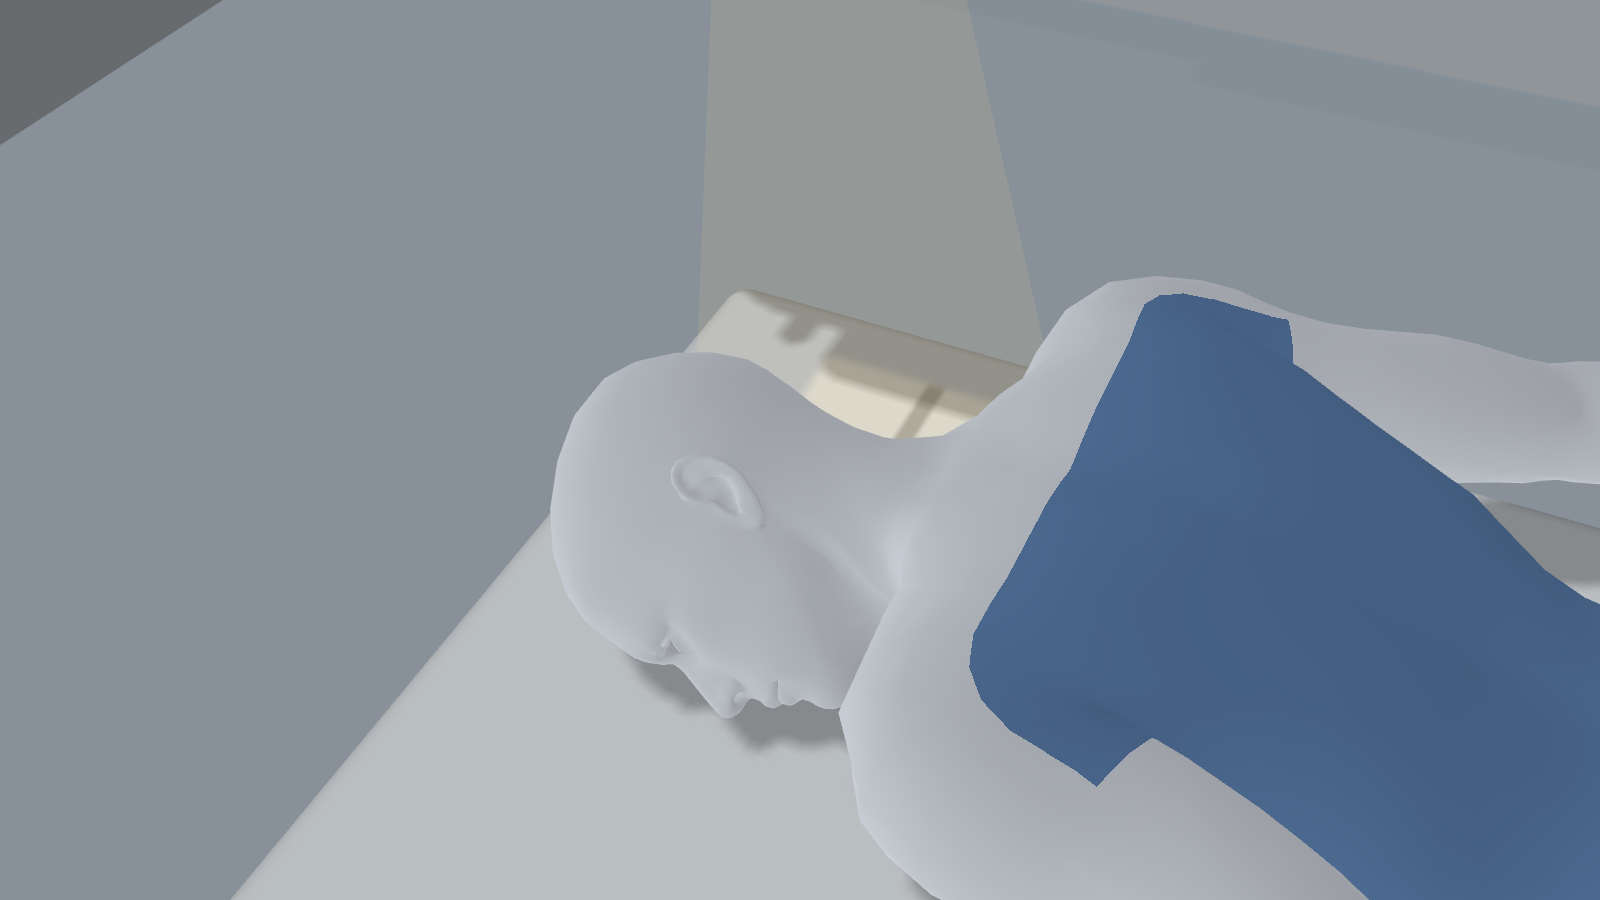
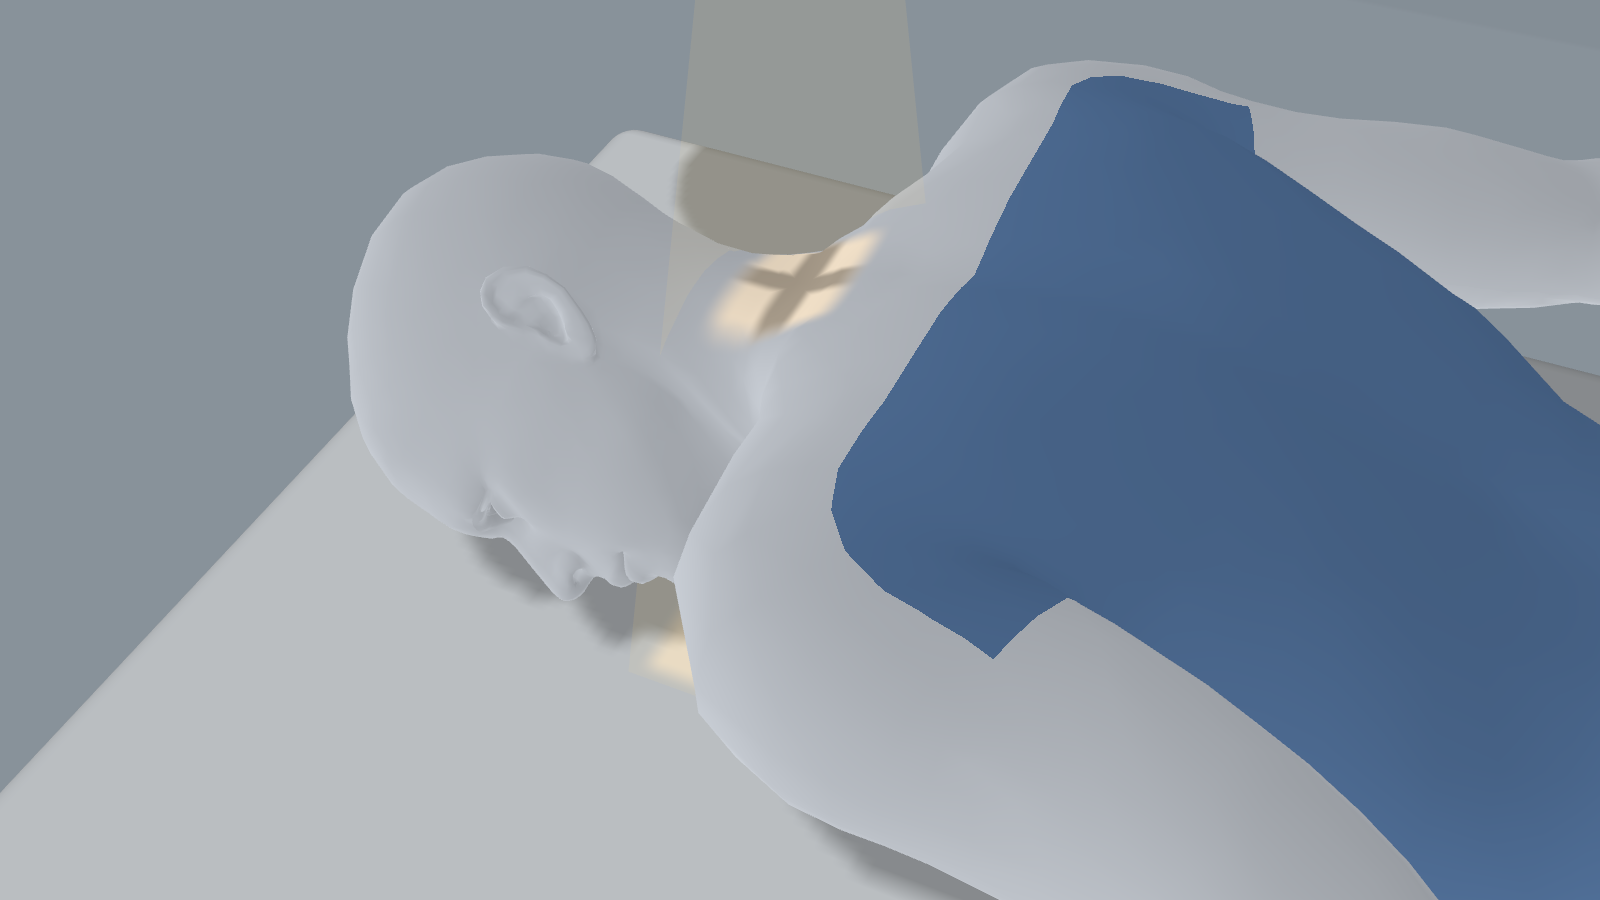
Fix Stenver's light-field aim: paint on head/neck, not behind on table
Root cause was a bad head-center estimate aiming the tube ~6cm off the
head (wrong side); the skin-paint method works fine (same as pelvis).
Data-driven grid search located the head up-facing point; tube now
parks over it so the field+cross paint on the body. Field made warmer/
brighter so it reads on the (bright emissive) white skin. 12deg caudad
kept as the documented CR-IR angle in readout; visual field centered on
the part (vertical) since a 12deg tilt over the ~0.7m throw walks the
small light square off the turned skull onto the table.

diff --git a/index.html b/index.html
@@ -173,8 +173,8 @@ function beamPaint(base) {
   const lit = hit.mul(isBody.oneMinus()).mul(uOcclOn).oneMinus();
 
   const fm = fieldMask.mul(lit);
-  let c = base.add(color("#ffeab5").mul(fm.mul(0.34)));
-  c = mix(c, c.mul(0.55), fm.mul(crossBand));
+  let c = base.add(color("#ffcf6a").mul(fm.mul(0.5)));   // 暖橘光野,白皮膚上也看得見
+  c = mix(c, c.mul(0.45), fm.mul(crossBand));            // 十字陰影帶
   return c;
 }
 
@@ -612,10 +612,13 @@ const PRESETS = {
       "head.y": 45
     },
     room: { lie: 1, ox: 0.55, oy: 1.47, oz: 0 },
-    tube: { x: -0.13, z: 0.55, h: 1.70, pitch: 12, yaw: 0, fieldW: 0.20, fieldH: 0.25, beamOn: 1 },
+    // 球管對位:網格實測頭部朝上點 room x≈-0.02,z≈0.55(光野貼顳/頰)。
+    // 12° caudad 是 CR-IR 角度(readout 記載);視覺光野維持垂直置中於頭部(真機亦置中於部位),
+    // 否則 12° 在 ~0.7m 投程會把方形光野「走」到頭後檯面。
+    tube: { x: -0.02, z: 0.55, h: 1.50, pitch: 0, yaw: 0, fieldW: 0.13, fieldH: 0.16, beamOn: 1 },
     ws: { h: 1.45, x: -2.3 }, det: { x: 1.38, z: 0.55, on: 0 },
-    occl: { x: -0.13, y: 0.95, z: 0.55, rx: 0.16, ry: 0.15, rz: 0.16 },   // 頭部影子
-    cam: { px: -0.1, py: 1.5, pz: 1.4, tx: -0.1, ty: 0.95, tz: 0.55 }
+    occl: { x: -0.02, y: 0.85, z: 0.55, rx: 0.15, ry: 0.15, rz: 0.15 },   // 頭部影子
+    cam: { px: -0.02, py: 1.4, pz: 1.3, tx: -0.02, ty: 0.86, tz: 0.55 }
   },
   "skull-stenvers-arcelin": {
     label: "頭顱 Arcelin 位(仰臥,Reverse Stenver's)",
@@ -627,10 +630,10 @@ const PRESETS = {
       "head.y": 45
     },
     room: { lie: 1, ox: 0.55, oy: 1.47, oz: 0 },
-    tube: { x: -0.13, z: 0.55, h: 1.70, pitch: 12, yaw: 0, fieldW: 0.20, fieldH: 0.25, beamOn: 1 },
+    tube: { x: -0.02, z: 0.55, h: 1.50, pitch: 0, yaw: 0, fieldW: 0.13, fieldH: 0.16, beamOn: 1 },
     ws: { h: 1.45, x: -2.3 }, det: { x: 1.38, z: 0.55, on: 0 },
-    occl: { x: -0.13, y: 0.95, z: 0.55, rx: 0.16, ry: 0.15, rz: 0.16 },
-    cam: { px: -0.1, py: 1.5, pz: 1.4, tx: -0.1, ty: 0.95, tz: 0.55 }
+    occl: { x: -0.02, y: 0.85, z: 0.55, rx: 0.15, ry: 0.15, rz: 0.15 },
+    cam: { px: -0.02, py: 1.4, pz: 1.3, tx: -0.02, ty: 0.86, tz: 0.55 }
   }
 };
 